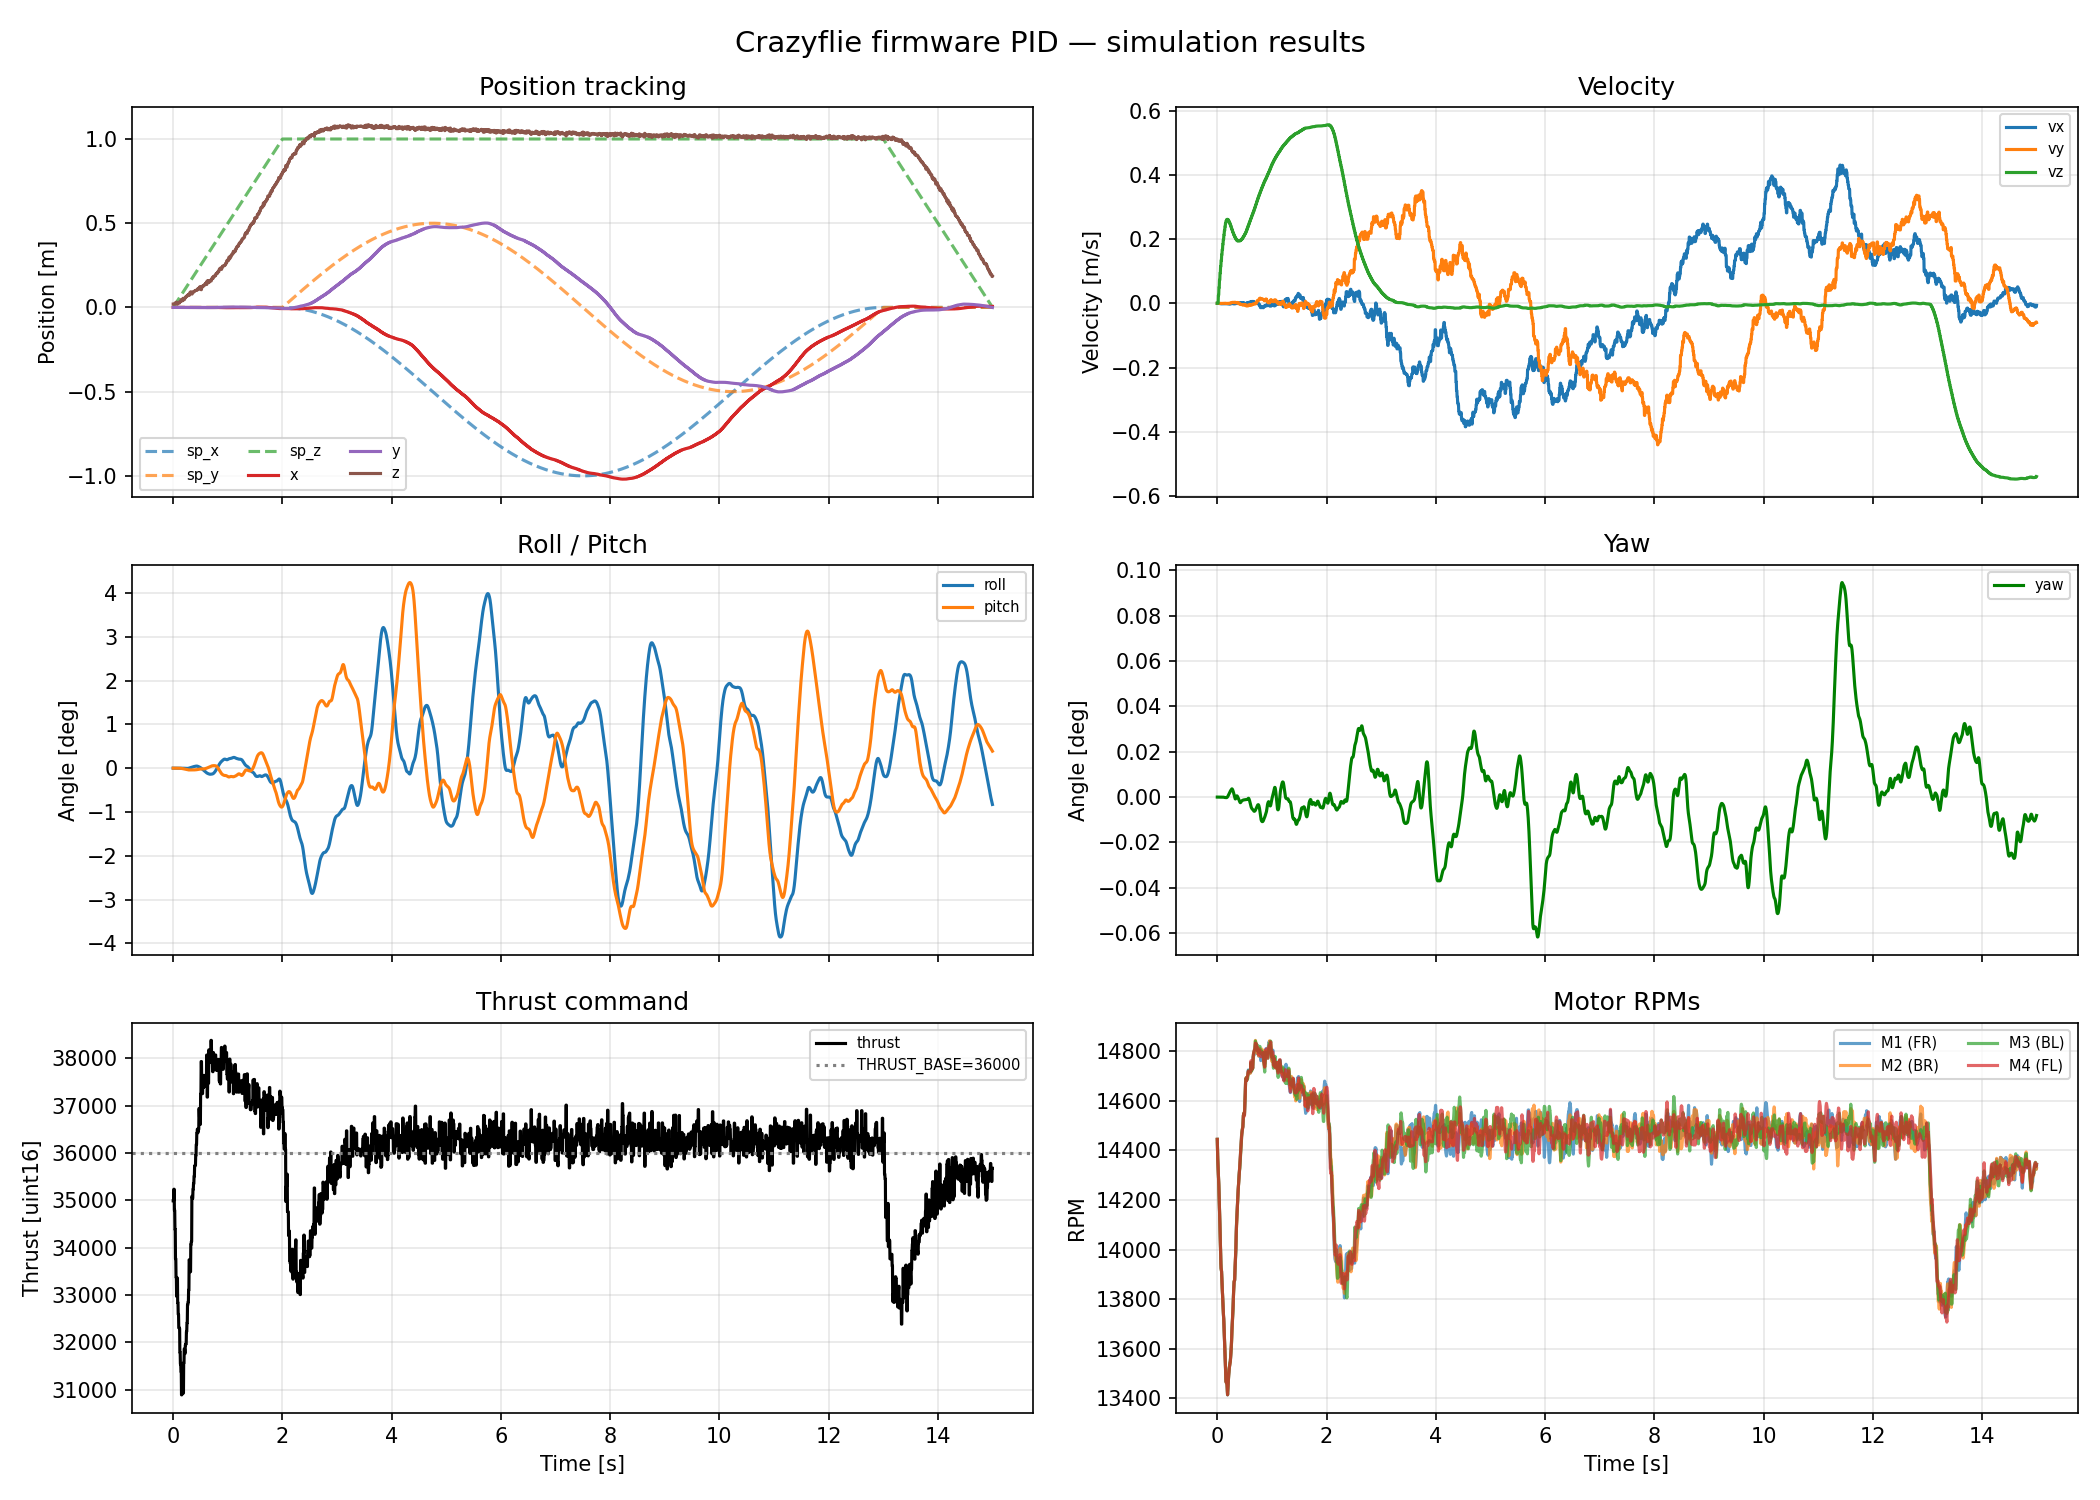
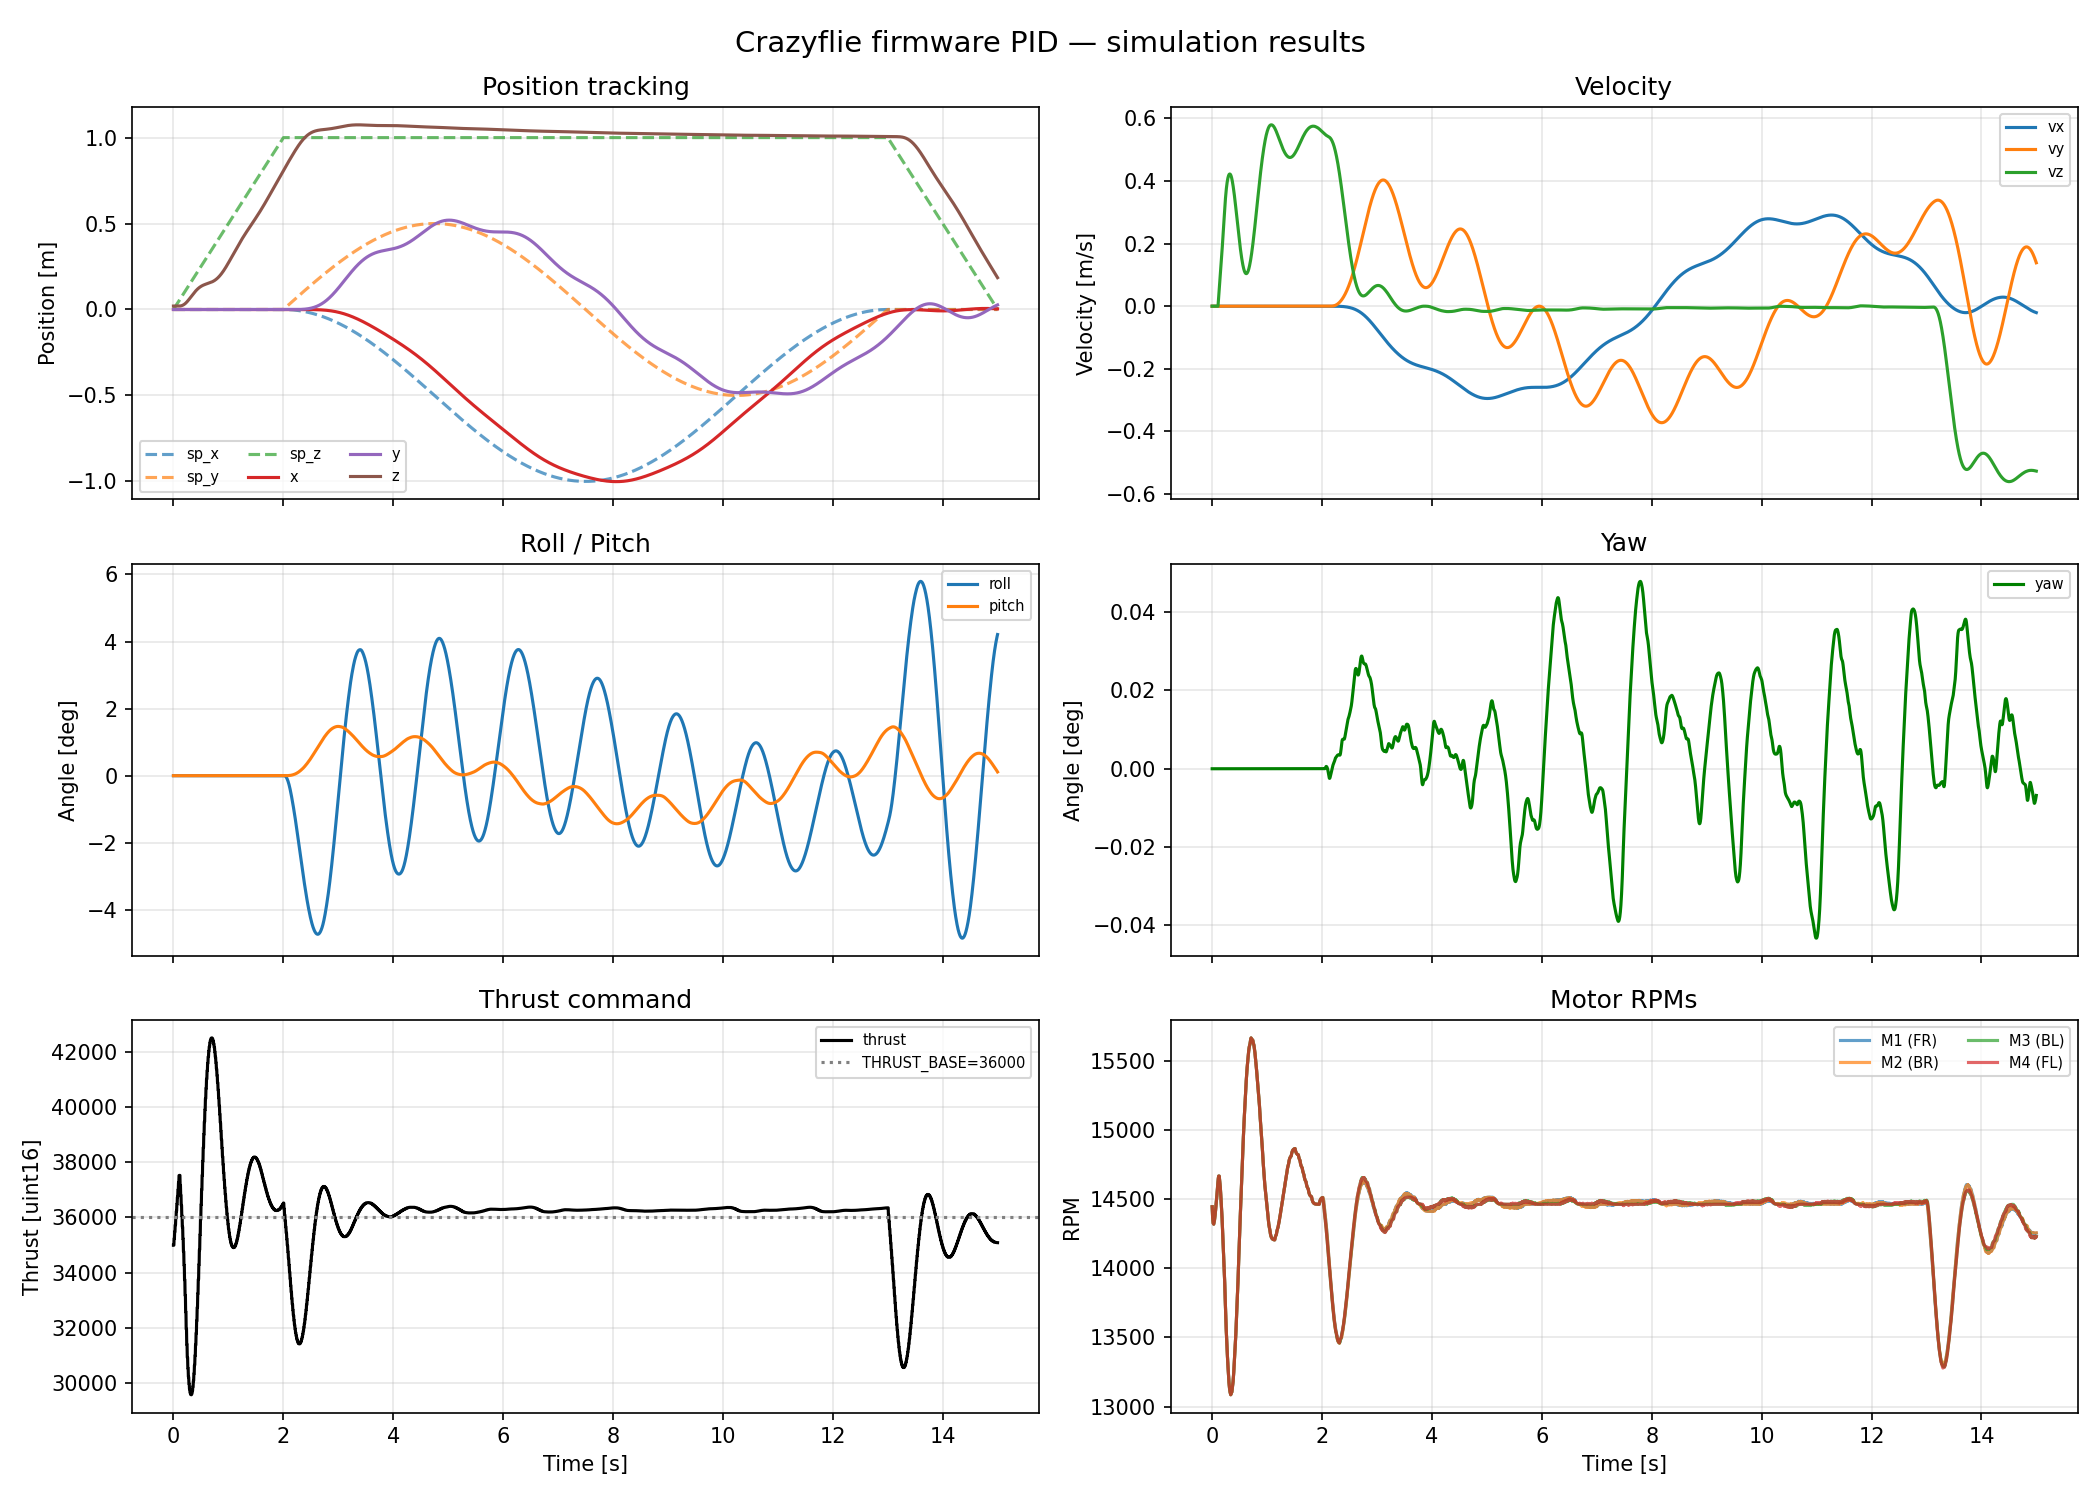
removed noise in flowdeck simu but kept latency, result is ok/nice

diff --git a/cf_firmware_pid_sim.py b/cf_firmware_pid_sim.py
@@ -788,126 +788,97 @@ class MotorDynamicsFilter:
 # ===================================================================
 
 class FlowDeckSimulator:
-    """Simulates the state estimation pipeline of the Crazyflie Flow deck v2.
+    """Simulates the transport delay of the Crazyflie Flow deck v2.
 
-    The Flow deck provides two sensors to the onboard Kalman filter (EKF):
-      - PMW3901 optical flow → horizontal velocity at 100 Hz
-      - VL53L1x ToF          → absolute height at ~50 Hz
+    The primary effect responsible for PID oscillations is the latency
+    between the physical state and what the position PID receives:
+      - PMW3901 sampling at 100 Hz       → 10 ms per measurement
+      - I2C transfer + EKF update        → ~5 ms
+      - Total round-trip to PID input    → ~15 ms
 
-    Three effects are modelled:
+    This delay reduces the phase margin of the closed-loop system.  The
+    default CF2.1+ gains were tuned for Lighthouse/Loco (<5 ms latency);
+    with the Flow deck the same gains are often marginally stable → oscillations.
 
-    1. **Correlated velocity noise (Ornstein-Uhlenbeck process)**
-       The raw PMW3901 pixel noise is white, but the onboard EKF smooths it.
-       The resulting velocity estimate drifts slowly, with a correlation time
-       of roughly τ ≈ 0.5–2 s.  A white-noise model (independent sample every
-       10 ms) would make the velocity PID react at 100 Hz — far too fast.
-       With the OU model the noise evolves on a ~1 s timescale, producing the
-       slow, realistic oscillations seen on the real drone.
-
-       OU update at each flow tick (dt = 10 ms):
-         α           = exp(-dt / τ_noise)          ← decay factor
-         σ_drive     = σ_v(h) · √(1 − α²)          ← injected std per step
-         n(t+dt) = α·n(t) + σ_drive · N(0,1)        ← coloured noise state
-
-       Steady-state std of n: σ_v(h) = vel_noise · h / ref_height
-       Source: mirrors EKF velocity estimate bandwidth observed on CF2.1+
-
-    2. **xy position integration drift**
-       x/y are integrated from the noisy velocity (no absolute xy reference).
-       z is replaced each flow update by the ToF measurement (σ ≈ 5 mm).
-       Typical position error after 1 s of OU noise ≈ σ_v · τ_noise ≈ 5 cm.
-
-    3. **Transport delay (~10 ms)**
-       One flow update period of latency between measurement and PID input.
+    An optional Ornstein-Uhlenbeck velocity noise model (vel_noise > 0) is
+    available for realism testing, but is disabled by default: deterministic
+    delay-only runs are more useful for systematic PID tuning.
 
     Parameters
     ----------
-    ctrl_freq  : int   — simulation control frequency [Hz]       (default 500)
-    vel_noise  : float — velocity noise std at ref_height [m/s]  (default 0.035)
-    ref_height : float — reference height for noise scaling [m]  (default 0.5)
-    tof_noise  : float — ToF height noise std [m]                (default 0.005)
-    noise_tau  : float — OU correlation time [s]                 (default 0.5)
+    ctrl_freq : int   — simulation control frequency [Hz]           (default 500)
+    delay_ms  : float — total sensor-to-PID latency [ms]           (default 25)
+    vel_noise : float — OU velocity noise std at ref_height [m/s]
+                        Set to 0 (default) to disable noise.
+    ref_height: float — reference height for noise scaling [m]     (default 0.5)
+    noise_tau : float — OU correlation time [s]                    (default 0.5)
     """
 
     FLOW_HZ = 100   # PMW3901 update rate as configured in the CF firmware
 
-    def __init__(self, ctrl_freq=500, vel_noise=0.035, ref_height=0.5,
-                 tof_noise=0.005, noise_tau=0.5):
-        self.ctrl_freq       = ctrl_freq
-        self.vel_noise       = vel_noise
-        self.ref_height      = ref_height
-        self.tof_noise       = tof_noise
-        self.noise_tau       = noise_tau
-        self._steps_per_flow = ctrl_freq // self.FLOW_HZ  # 5 steps at 500 Hz
-        self._dt_flow        = self._steps_per_flow / ctrl_freq  # 0.01 s
-        self._step           = 0
+    def __init__(self, ctrl_freq=500, delay_ms=110,
+                 vel_noise=0.0, ref_height=0.5, noise_tau=0.5):
+        self.ctrl_freq  = ctrl_freq
+        self.delay_ms   = delay_ms
+        self.vel_noise  = vel_noise
+        self.ref_height = ref_height
+        self.noise_tau  = noise_tau
 
-        # Pre-compute OU decay factor (height-independent part)
-        self._ou_alpha = math.exp(-self._dt_flow / noise_tau)
+        # Delay buffer: holds the last `delay_steps` (pos, vel) pairs
+        delay_steps = max(1, round(delay_ms * 1e-3 * ctrl_freq))
+        self._delay_steps = delay_steps
+        self._buf_pos = [np.zeros(3)] * delay_steps
+        self._buf_vel = [np.zeros(3)] * delay_steps
+        self._head = 0   # circular buffer write index
 
-        # OU noise state (x and y channels, independent)
-        self._ou_x = 0.0
-        self._ou_y = 0.0
-
-        # EKF state estimate
-        self._pos_est = np.zeros(3)
-        self._vel_est = np.zeros(3)
-
-        # One-update-period transport delay buffer (~10 ms)
-        self._delayed_pos = np.zeros(3)
-        self._delayed_vel = np.zeros(3)
+        # OU noise state (only used when vel_noise > 0)
+        self._dt_flow  = 1.0 / self.FLOW_HZ
+        self._ou_alpha = math.exp(-self._dt_flow / noise_tau) if noise_tau > 0 else 0.0
+        self._ou_x     = 0.0
+        self._ou_y     = 0.0
+        self._step     = 0
+        self._steps_per_flow = ctrl_freq // self.FLOW_HZ
 
     def reset(self, true_pos):
-        self._ou_x        = 0.0
-        self._ou_y        = 0.0
-        self._pos_est     = true_pos.copy()
-        self._vel_est     = np.zeros(3)
-        self._delayed_pos = true_pos.copy()
-        self._delayed_vel = np.zeros(3)
-        self._step = 0
+        self._buf_pos = [true_pos.copy() for _ in range(self._delay_steps)]
+        self._buf_vel = [np.zeros(3)     for _ in range(self._delay_steps)]
+        self._head  = 0
+        self._ou_x  = 0.0
+        self._ou_y  = 0.0
+        self._step  = 0
 
     def update(self, true_pos, true_vel):
         """Advance one control step.
 
-        Returns (pos_est, vel_est) — coloured-noisy, delayed state as seen
-        by the position PID, mirroring stateEstimate.x/y/z on the real drone.
+        Returns (pos_delayed, vel_delayed) — the state seen by the position
+        PID after the Flow deck's transport delay.  If vel_noise > 0, OU
+        noise is added at 100 Hz before the delay buffer.
         """
         self._step += 1
 
-        if self._step % self._steps_per_flow == 0:
+        pos_in = true_pos.copy()
+        vel_in = true_vel.copy()
+
+        # Optional OU velocity noise (100 Hz ticks only)
+        if self.vel_noise > 0 and self._step % self._steps_per_flow == 0:
             h = max(true_pos[2], 0.02)
-
-            # --- ToF z measurement (absolute, low noise) ---
-            z_meas = h + np.random.normal(0, self.tof_noise)
-            z_meas = max(0.01, z_meas)
-
-            # --- OU velocity noise (coloured, ~τ s correlation time) ---
-            # Target steady-state std scales linearly with height.
-            sigma_v    = self.vel_noise * (h / self.ref_height)
+            sigma_v     = self.vel_noise * (h / self.ref_height)
             sigma_drive = sigma_v * math.sqrt(1.0 - self._ou_alpha ** 2)
             self._ou_x  = self._ou_alpha * self._ou_x + sigma_drive * np.random.randn()
             self._ou_y  = self._ou_alpha * self._ou_y + sigma_drive * np.random.randn()
+            vel_in[0]  += self._ou_x
+            vel_in[1]  += self._ou_y
+            pos_in[0]  += self._ou_x * self._dt_flow
+            pos_in[1]  += self._ou_y * self._dt_flow
 
-            vel_meas = true_vel.copy()
-            vel_meas[0] += self._ou_x
-            vel_meas[1] += self._ou_y
+        # Write current (possibly noisy) state into circular delay buffer
+        self._buf_pos[self._head] = pos_in
+        self._buf_vel[self._head] = vel_in
+        self._head = (self._head + 1) % self._delay_steps
 
-            # --- Integrate xy; replace z with ToF (no z drift) ---
-            pos_new = np.array([
-                self._pos_est[0] + vel_meas[0] * self._dt_flow,
-                self._pos_est[1] + vel_meas[1] * self._dt_flow,
-                z_meas,
-            ])
-
-            # Push current estimate into delay buffer before updating
-            self._delayed_pos = self._pos_est.copy()
-            self._delayed_vel = self._vel_est.copy()
-
-            self._pos_est = pos_new
-            self._vel_est = vel_meas
-
-        # Return the delayed estimate (~10 ms transport delay)
-        return self._delayed_pos.copy(), self._delayed_vel.copy()
+        # Read oldest entry (= state from delay_ms ago)
+        tail = self._head   # after increment, head points to oldest slot
+        return self._buf_pos[tail].copy(), self._buf_vel[tail].copy()
 
 
 # ===================================================================
@@ -1129,10 +1100,9 @@ def run_sim(duration_sec=15, gui=True, hover_height=0.5, radius=0.5, plot=True,
     if simulate_flow_deck:
         flow_deck = FlowDeckSimulator(ctrl_freq=CTRL_FREQ)
         flow_deck.reset(np.array([0.0, 0.0, 0.02]))
-        print(f"[SIM] Flow deck simulation ON  "
-              f"(vel_noise={flow_deck.vel_noise} m/s @ {flow_deck.ref_height} m, "
-              f"tau={flow_deck.noise_tau} s, "
-              f"delay={1000/flow_deck.FLOW_HZ:.0f} ms)")
+        noise_str = (f", vel_noise={flow_deck.vel_noise} m/s (OU τ={flow_deck.noise_tau}s)"
+                     if flow_deck.vel_noise > 0 else ", noise OFF")
+        print(f"[SIM] Flow deck simulation ON — delay={flow_deck.delay_ms} ms{noise_str}")
     else:
         flow_deck = None
 
@@ -1695,7 +1665,7 @@ def run_real(mode, uri="radio://0/80/2M/E7E7E7E7E7",
             if HAS_PYBULLET_DRONES:
                 sim_data = run_sim(duration_sec=duration_sec, gui=False,
                                    hover_height=hover_height, radius=radius, plot=False,
-                                   simulate_flow_deck=False)
+                                   simulate_flow_deck=True)
                 _plot_comparison(real_data, sim_data)
             else:
                 print("[REAL] pybullet-drones not found — skipping comparison plot.")
